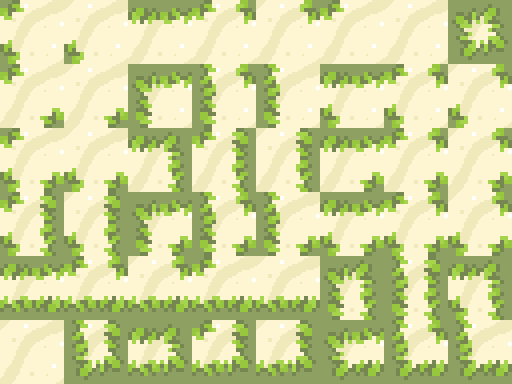
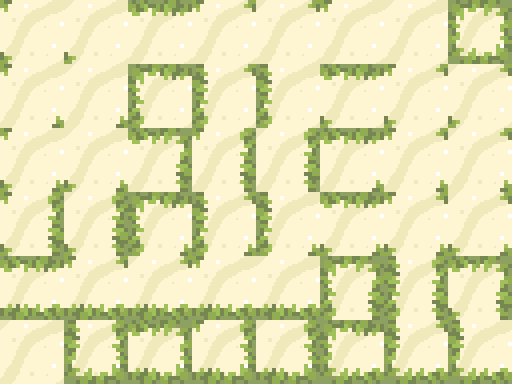
finished autotiling

diff --git a/World_Generation/Auto_Tiling/Main.py b/World_Generation/Auto_Tiling/Main.py
@@ -5,6 +5,7 @@ from pyglet.window import key
 from pyglet import gl
 from Camera import Camera
 from Asset_loader import Asset_Loader
+
 from Renderv2 import Render
 import ui_module as ui
 
@@ -16,12 +17,13 @@ class Game(pyglet.window.Window):
         self.asset_loader = Asset_Loader("./Assets")
         self.assets = self.asset_loader.load()
     
-
+        self.auto = True
         self.main_batch = pyglet.graphics.Batch()
         self.bg_batch = pyglet.graphics.Batch()
         self.ui_batch = pyglet.graphics.Batch()
         self.projection = Projection2D()
         self.render = Render(self)
+        
         self.ui_banners = ui.Banner
         self.ui_menus = ui.Menu 
         ui.Banner(self,"Auto Tiling",True,True, timeout = 5)
@@ -34,11 +36,11 @@ class Game(pyglet.window.Window):
         #self.render.draw()
         
         #self.world_camera.attach(self.entity_manager.get(0))
-        self.on_draw = self.event(self.on_draw)
+        #self.on_draw = self.event(self.on_draw)
  
   #      self.game_object = []
         
-        pyglet.clock.schedule_interval(self.update,1/60)
+        pyglet.clock.schedule(self.update)
         #pyglet.clock.set_fps_limit(60)
     def remove_ui(self,ui_element, element_list):
         print(self.overlays)
@@ -65,6 +67,8 @@ class Game(pyglet.window.Window):
             self.fps.draw()
 
         with self.ui_camera:
+            
+
             for menu in self.ui_menus.instances:
                 menu.draw()
             for banner in self.ui_banners.instances:
@@ -72,9 +76,7 @@ class Game(pyglet.window.Window):
 
         
        
-    def on_mouse_motion(self,x, y, dx, dy):
-        #print("mouse x: ",x,"mouse y: ",y )
-        self.system.inject({'type': 'player_movement', 'data': ["mouse_pos",x]})
+    
     def on_mouse_press(self,x, y, button, modifiers):
         #print(button)
         if button == 4:
@@ -112,9 +114,9 @@ class Game(pyglet.window.Window):
             self.ui_module.debug_mode = not self.ui_module.debug_mode
         if symbol == key.W:
             print("swap")
-            self.bg_batch = pyglet.graphics.Batch()
-            self.draw = not self.draw
-            self.render.draw(self.draw)
+            self.auto = not self.auto
+            self.render.bg_sprites = []
+            self.render.bg_sprites = self.render.auto_tile_region(self.render.map,0,0,len(self.render.map),len(self.render.map),self.auto)
         
     def on_key_release(self,symbol, modifiers):
         pass

diff --git a/World_Generation/Auto_Tiling/Renderv2.py b/World_Generation/Auto_Tiling/Renderv2.py
@@ -1,5 +1,5 @@
 import pyglet
-from random import randint
+import random
 import json
 
 class Render():
@@ -91,6 +91,7 @@ class Render():
     def auto_tile_region(self, level, x, y, width, height,auto_tile = False):
         sprites = []
         # loop through level looking at neighbors of
+        random.seed(a = 24)
         for i in range(y,height):
             for j in range(x,width):
                 x_pos = ((j)*self.tile_size)
@@ -100,7 +101,8 @@ class Render():
                     transition = [0,level[i][j]]
                 if transition[0] == 0:
                     image = self.game.assets[level[i][j]]
-                    val = randint(0,image.width//self.tile_size-1)
+                    n = max((image.width//self.tile_size),1)
+                    val = random.choices([i for i in range(n)],weights =[80-min(i,1)*65 for i in range(n)])[0]
                     tile = image.get_region(val*self.tile_size,0,self.tile_size,self.tile_size)
                     sprite = pyglet.sprite.Sprite(img = tile,x= x_pos, y = y_pos, batch = self.game.bg_batch)
                     sprites.append(sprite)
@@ -116,7 +118,7 @@ class Render():
                     else:
                         transition[1].sort()
                         grid = self.game.assets[level[i][j]+transition[1][0]]
-                        base_value = self.get_tile_value(level,j,i,transition[1][0])
+                        base_value = self.get_tile_value(level,j,i,transition[1][0])# add transition[1][0]
                         image = grid[self.value_to_tile[base_value]]
                         image = image.get_image_data().get_texture()
                         for tile in range(len(transition[1])-1):                        
@@ -124,6 +126,7 @@ class Render():
                         tile = pyglet.resource.get_texture_bins()[-1].add(image)
                         self.game.assets[transition[2]] = tile
                         sprites.append(pyglet.sprite.Sprite(img = tile,x= x_pos, y = y_pos, batch = self.game.bg_batch))   
+        random.seed(a = None)
         return sprites
 
     def neighbors(self,direction,level, y,x,mask):

diff --git a/World_Generation/Auto_Tiling/Asset_loader.py b/World_Generation/Auto_Tiling/Asset_loader.py
@@ -7,14 +7,15 @@ class Asset_Loader():
         pyglet.image.Texture.default_mag_filter = gl.GL_NEAREST
         pyglet.resource.path = [".",Asset_location]
         pyglet.resource.reindex()
+        self.multi_tiles = set()
     
     def load_image(self,file_name,center_image=False,):
         image = pyglet.resource.image(file_name)
         
         if center_image:
            image = self.center_image(image)
-        gl.glEnable(gl.GL_TEXTURE_2D)
-        gl.glTexParameteri(gl.GL_TEXTURE_2D, gl.GL_TEXTURE_MAG_FILTER, gl.GL_NEAREST)
+        #gl.glEnable(gl.GL_TEXTURE_2D)
+        #gl.glTexParameteri(gl.GL_TEXTURE_2D, gl.GL_TEXTURE_MAG_FILTER, gl.GL_NEAREST)
         return image
 
     def load_animation(self,file_name,center_animation = False,duration = None):
@@ -44,11 +45,13 @@ class Asset_Loader():
         pyglet.image.Texture.default_min_filter = gl.GL_NEAREST
         pyglet.image.Texture.default_mag_filter = gl.GL_NEAREST
         assets = {}
-        
-        assets['1'] = self.load_image("Grassx64.png",True).get_image_data() 
-        #assets['0'] = self.load_image("Stonex64.png",True).get_image_data() 
-        assets['01'] = self.load_image("GrasstoSand.png",True).get_image_data() 
-        assets['0'] = self.load_image("Sandx64.png",True).get_image_data()
+
+        assets['2'] = self.load_image("Grassx64.png",True)
+        assets['12'] = pyglet.image.TextureGrid(pyglet.image.ImageGrid(self.load_image("GrasstoSand.png",True),6,8))
+        assets['1'] = self.load_image("Sandx64.png",True)
+        assets['02'] = pyglet.image.TextureGrid(pyglet.image.ImageGrid(self.load_image("GrasstoStone.png",True),6,8))
+        assets['01'] = pyglet.image.TextureGrid(pyglet.image.ImageGrid(self.load_image("SandtoStone.png",True),6,8))
+        assets['0'] = self.load_image("Stonex64.png",True)
 
 
        

diff --git a/World_Generation/Auto_Tiling/Render.py b/World_Generation/Auto_Tiling/Render.py
@@ -67,10 +67,8 @@ class Render():
                 chunk_img_list[i][j] = pyglet.resource.get_texture_bins()[-1].add(chunk_img_list[i][j].get_image_data())
         return chunk_img_list
 
-    def neighbors(self,d,x,y,i,v,l):
-        w = l
-        h = l
-        size = w * h
+    def neighbors(self,dirct,x,y,mask):
+        
         neighbors = []
         temp = -1
         if d == 0:
@@ -104,7 +102,6 @@ class Render():
                 neighbors.append(self.map[y][x][i+w+1])  # southeast
                 temp += 4
             else:
-                #print((i + w + 1) < size, ((i + 1) % w != 0))
                 neighbors.append(None)
         if d == 2:
             if i % w != 0 and self.map[y][x][i-1] > v:
@@ -117,8 +114,6 @@ class Render():
                 temp += 2
             else:
                 neighbors.append(None)
-
-            
             if temp == -1 and ((i - w - 1) >= 0) and (i % w != 0) and self.map[y][x][i-w-1] > v:
                 neighbors.append(self.map[y][x][i-w-1])  # northwest
                 temp += 4
@@ -140,19 +135,14 @@ class Render():
                 temp += 4
             else:
                 neighbors.append(None)
-
-                
-        
-        
         temp = min(temp,3)
         neighbors.append(temp)
         return neighbors
 
     def sub_tile(self, image_data, x,y,z):
-        sel = int()
         print(image_data)
         for i in range(4):
-            temp = i
+            
             sub_tile_value = self.neighbors(i,y,x,z,self.map[x][y][z],self.chunk_size)
 
             if sub_tile_value[-1] != -1:

diff --git a/World_Generation/SpriteSheet_Creator/Render.py b/World_Generation/SpriteSheet_Creator/Render.py
@@ -8,7 +8,7 @@ class Render():
         self.level = './directions/30.txt'
         self.chunk_size = 16
         self.tile_size = 64
-        
+        self.sprite_name = 'GrasstoStone.png'
         self.sheet = self.sprite_sheet()
 
 
@@ -52,7 +52,7 @@ class Render():
                             sheet.blit_into(new_image[0],((len(temp) %8) * self.tile_size),abs((len(temp)//8))* self.tile_size,0)
                             temp.append('1')
                             #sheet = pyglet.resource.get_texture_bins()[-1].add(sheet.get_image_data())
-        sheet.save('SandtoStone.png')
+        sheet.save(self.sprite_name)
         return sheet
     def flatten(self,level):
         new = []

diff --git a/World_Generation/SpriteSheet_Creator/Asset_loader.py b/World_Generation/SpriteSheet_Creator/Asset_loader.py
@@ -47,7 +47,7 @@ class Asset_Loader():
         
         assets['1'] = self.load_image("Grassx64.png",True).get_image_data() 
         #assets['1'] = self.load_image("Stonex64.png",True).get_image_data() 
-        assets['0'] = self.load_image("Sandx64.png",True).get_image_data()
+        assets['0'] = self.load_image("Stonex64.png",True).get_image_data().get_region(0,0,64,64)
 
 
        
